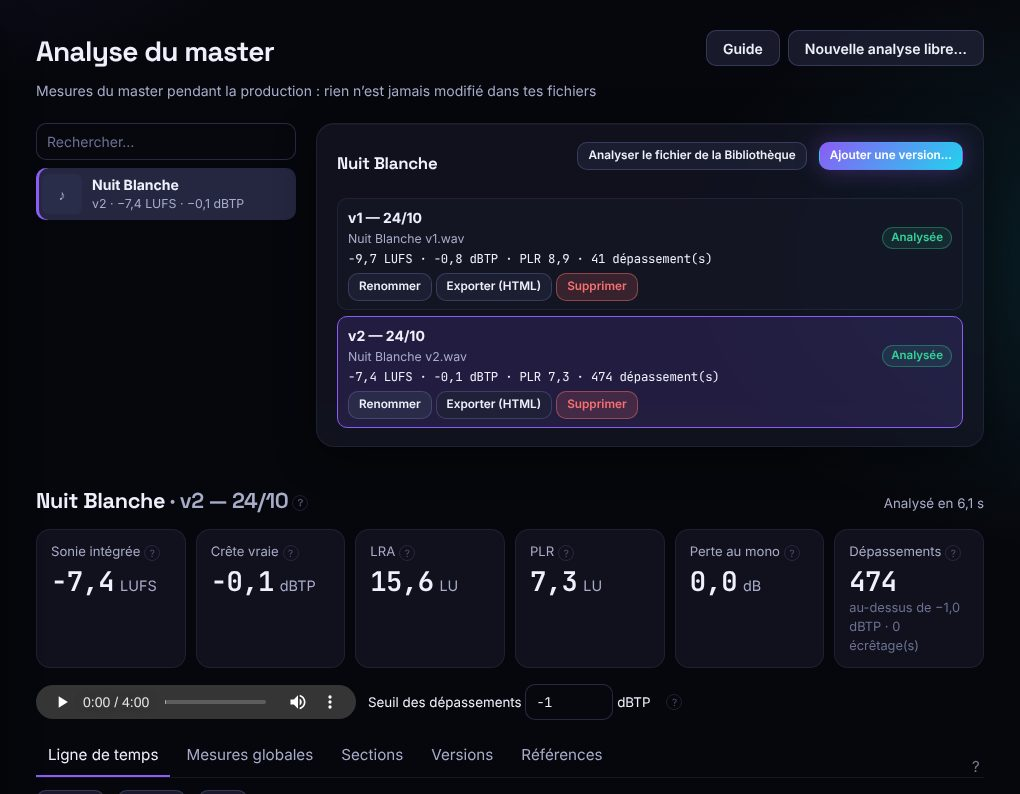
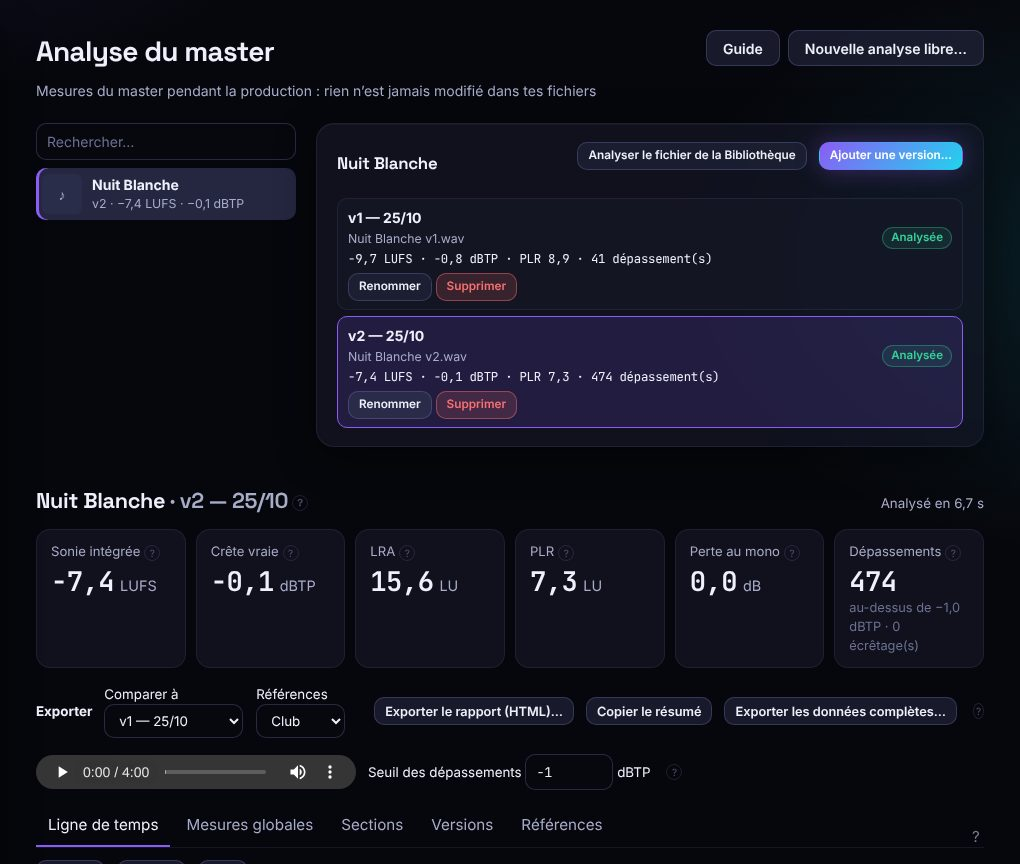
Version 0.21.0 : CHANGELOG, feuille de route, architecture, versions des modules, captures du guide
Claude-Session: https://claude.ai/code/session_01WqizzA1fPATgAghQSnC9Eh

diff --git a/CHANGELOG.md b/CHANGELOG.md
@@ -4,6 +4,32 @@ Format inspiré de [Keep a Changelog](https://keepachangelog.com/fr/1.1.0/), ver
 
 ## [Non publié]
 
+## [0.21.0] — 2026-10-24
+
+Quatre chantiers : les exports de l'Analyse du master (et le bouton « Exporter en HTML » qui ne donnait rien), la barre de commande écrite de l'assistant, la Boîte à idées, et le Timer qui pose « Tâche terminée ? » sans ouvrir l'app. Un seul système de fenêtre flottante pour tout.
+
+### Ajouté
+
+- **Analyse du master, exports** (ligne « Exporter » sous les chiffres clés, version comparée et profil de références au choix ; aucune mesure ne change) :
+  - « Exporter le rapport (HTML)… » : un seul fichier, ouvrable partout, imprimable en PDF ; tous les chiffres en texte et tableaux (mesures, plateformes, sections et contrastes, repères regroupés en zones et liste complète en annexe, écarts entre versions et avec les références) ; graphes en images PNG intégrées (ligne de temps, spectrogramme, équilibre tonal, stéréo/mono, contrastes, versions) ; aucune interprétation ;
+  - « Copier le résumé » : Markdown compact avec tous les chiffres clés ;
+  - « Exporter les données complètes… » : zip `courbes.csv` (une ligne par 100 ms) + `analyse.json` ;
+  - via « Enregistrer sous », dans le dossier de ton choix (socle : `ctx.files.saveAs`).
+- **Assistant, barre de commande écrite** (désactivée tant qu'aucune touche n'est choisie) : par-dessus l'application en cours, sans afficher ToolBox ; Entrée envoie, Échap ferme ; même chemin que la voix (corrections, commandes, IA si activée, mêmes droits et confirmations, « Tu voulais dire … ? » et « Annuler » dans la barre) ; réponse affichée, lue à voix haute seulement avec le réglage (désactivé) ; déclencheur « Double appui » (délai réglable) ou « Appui simple », touche ou combinaison au choix, la même que le micro possible (avertissement en appui simple). ADR 0037.
+- **Boîte à idées** (nouveau module, section Outils) : titre, texte en mise en forme simple, tags (suggestions, filtre multi-tags, couleurs, renommer, fusionner), morceau facultatif ; recherche sans accents, tri, « Une idée au hasard », archives, suppression avec « Annuler » ; « Transformer en tâche » si la To-do est là ; export Markdown ; carte d'accueil ; assistant : « idée : … #tag », « montre mes idées », « une idée au hasard » (ajout derrière le droit « L'assistant peut ajouter des idées », désactivé). ADR 0038.
+- **Timer dans la fenêtre flottante** : « Tâche terminée : [titre] ? » avec « Oui, la cocher » / « Non » puis « Relancer (même programme) » / « Plus tard », sans ouvrir l'app (la question reste aussi sur la page) ; « Pause — 5 min » / « Au travail — 8 min » quelques secondes ; chaque élément désactivable.
+- **Socle** : une seule fenêtre flottante partagée, panneaux empilés sans chevauchement (`FloatingPanel` : clics, clavier seulement pour un champ de texte) (ADR 0036) ; `ctx.hotkeys` : combinaisons de touches et plusieurs touches par module ; `ctx.files.saveAs` ; service `todo` : `createTask`.
+
+### Modifié
+
+- Reconnaissance des commandes : un tag écrit « #tag » est traité comme « avec le tag … » (« ajoute une tâche finir le mix #studio vendredi » est mieux reconnue).
+- La To-do ne prend plus « note une idée … » pour une tâche.
+
+### Corrigé
+
+- **Analyse du master** : « Exporter (HTML) » écrivait le rapport dans le dossier de sortie sans rien montrer (ni boîte, ni message, ni fichier ouvert). Il passe maintenant par « Enregistrer sous » et affiche le chemin.
+- **Timer** : le mini-timer plantait quand l'horloge passait la fin d'une session un instant avant le backend, et restait vide ensuite (aussi sur la carte d'accueil).
+
 ## [0.20.0] — 2026-10-24
 
 L'Analyse du master devient lisible d'un coup d'œil (mêmes mesures, au chiffre près), et un nouvel outil : le Timer, avec le pomodoro incrémental pour briser la barrière du démarrage.

diff --git a/docs/ARCHITECTURE.md b/docs/ARCHITECTURE.md
@@ -196,13 +196,13 @@ La disposition est un JSON dans le réglage caché `ui.navigation` (`{ categorie
 
 Fermer la fenêtre alors que des tâches tournent (envoi YouTube, rendu) — zone de notification désactivée — ouvre une confirmation qui les liste (`electron/desktop.ts`) : elles s'arrêtent avec l'app ; un envoi YouTube reprend au lancement suivant là où il s'était arrêté, les autres tâches (rendus) sont marquées « interrompues » et sont à relancer.
 
-### Assistant : actions des modules, touche globale, indicateur flottant
+### Assistant : actions des modules, touche globale, fenêtre flottante
 
 ADR 0028. Trois briques génériques du socle, utilisées par le module `assistant` (le socle ne connaît pas l'assistant) :
 
 - **Registre d'actions** (`backend/core/assistant.ts`, `ctx.assistant`, MODULES.md §5.15). Chaque module déclare ses actions (nom, description, paramètres, niveau de risque). Le socle vérifie les paramètres et applique les règles : `destructive` jamais sans `confirmed`, `sensitive` jamais exécutée. Il garde les « Annuler » en mémoire. Le catalogue n'est lisible qu'avec `permissions.assistant`. Actions du socle : `core.list-jobs`, `core.list-modules`, `core.open`, `core.show-app` (`backend/core/assistant-core.ts`).
 - **Touche globale** (`backend/core/hotkeys.ts`, `ctx.hotkeys`, `permissions.globalKeys`). `HostAdapter.globalKeys` est implémenté dans `electron/global-keys.ts` avec `uiohook-napi` (libuiohook, N-API précompilé, dépaqueté de l'asar). Il voit l'appui **et le relâchement** même sans le focus, ce que `globalShortcut` d'Electron ne sait pas faire. Le crochet ne tourne que pendant qu'un module écoute ; seul le code de la touche choisie est regardé.
-- **Fenêtre et indicateur** (`ctx.ui`). `HostAdapter.showWindow(route)` montre la fenêtre sur une page. `HostAdapter.setOverlayVisible` montre `electron/overlay.ts` : une petite fenêtre transparente, toujours au premier plan, qui ne prend ni le focus ni la souris et affiche la route `#/overlay` de l'interface (composants `Overlay` des modules). Les composants `Background` des modules sont montés une fois dans la fenêtre principale (`frontend/src/modules/ModuleExtras.tsx`), qui ne ralentit pas en arrière-plan (`backgroundThrottling: false`).
+- **Fenêtre et indicateur** (`ctx.ui`). `HostAdapter.showWindow(route)` montre la fenêtre sur une page. `HostAdapter.setOverlayVisible` montre `electron/overlay.ts` : **la** fenêtre flottante du hub (une seule, ADR 0036), transparente, toujours au premier plan, en bas au centre ; elle affiche la route `#/overlay` (composants `Overlay` des modules, en `FloatingPanel` empilés). La page mesure son contenu et envoie par IPC (`toolbox:overlay-layout`, accepté seulement de cette fenêtre, valeurs bornées par `electron/overlay-layout.ts`) sa taille et ce qu'elle doit prendre : rien (clics traversants), la souris (panneau à boutons, sans activation) ou le clavier (champ de texte, rendu à sa disparition). Les composants `Background` des modules sont montés une fois dans la fenêtre principale (`frontend/src/modules/ModuleExtras.tsx`), qui ne ralentit pas en arrière-plan (`backgroundThrottling: false`).
 - **Permissions de l'interface** (`electron/main.ts`) : seulement pour les pages de l'app ; parmi les périphériques, le **micro** uniquement (ni caméra ni écran).
 - **Le module `assistant`** s'appuie dessus (ADR 0029). Il garde lancés `whisper-server` (whisper.cpp) et Piper, en processus enfants de l'app. Il parle à Ollama, installé à part, sur `127.0.0.1:11434`. Le micro et la lecture se font dans son composant `Background` ; l'état passe par un flux SSE du module. Les outils qu'il donne au modèle sont `ctx.assistant.actions()`, exécutés par `ctx.assistant.run()`. Tout reste sur le PC.
 

diff --git a/docs/ROADMAP.md b/docs/ROADMAP.md
@@ -26,6 +26,7 @@ Légende : ✅ fait · 🚧 en cours · ⏳ prévu
 | 5 quater    | **Analyse du master** (module `master-analysis`, sans modifier l'audio : sonie, crêtes, bandes, stéréo, sections, versions, références, dossier surveillé désactivé, vérification rapide non bloquante avant les générations) ; **Stats YouTube fiables** (en direct / consolidé, API avant CSV, imports supprimables, diagnostic, synchro 4× plus rapide) ; **assistant** (mots attendus, corrections, surnoms, noms au son, « Tu voulais dire », semaine du calendrier, « ouvre l'application ») ; sauvegarde allégée ; ADR 0032–0034        | ✅ (v0.18.0) |
 | 5 quinquies | **Nettoyage et audit** (code mort, robustesse de l'Analyse du master, test instable, docs, dépendances) ; écoute A/B qui ne monte jamais le volume ; sauvegardes avant migration et avant suppression en rotations séparées ; vérification des Reels perso selon le mode de son ; **guide intégré de l'Analyse du master** (page séparée, recherche, « ? », captures annotées) et règle du guide pour les modules complexes                                                                                                                    | ✅ (v0.19.0) |
 | 5 sexies    | **Analyse du master lisible** (chiffres clés en grand, groupes par question, détail replié, pistes et colonnes au choix, Sections adaptées au portable ; mesures identiques) ; **Timer** (simple, pomodoro, pomodoro incrémental, préréglages, heure réelle et reprise, mini-timer, historique, To-do facultative, voix) ; ADR 0035                                                                                                                                                                                                            | ✅ (v0.20.0) |
+| 5 septies   | **Exports de l'Analyse du master** (rapport HTML autonome avec images, résumé Markdown, données CSV/JSON, « Enregistrer sous ») ; **barre de commande écrite** de l'assistant ; **Boîte à idées** ; Timer : « Tâche terminée ? » et transitions dans la **fenêtre flottante unique** du socle ; ADR 0036–0038                                                                                                                                                                                                                                  | ✅ (v0.21.0) |
 | 6           | Finitions, test du `.exe` installé, doc complète, v1.0.0                                                                                                                                                                                                                                                                                                                                                                                                                                                                                       | ⏳           |
 
 ## Maintenance décidée (audit v0.14.1)
